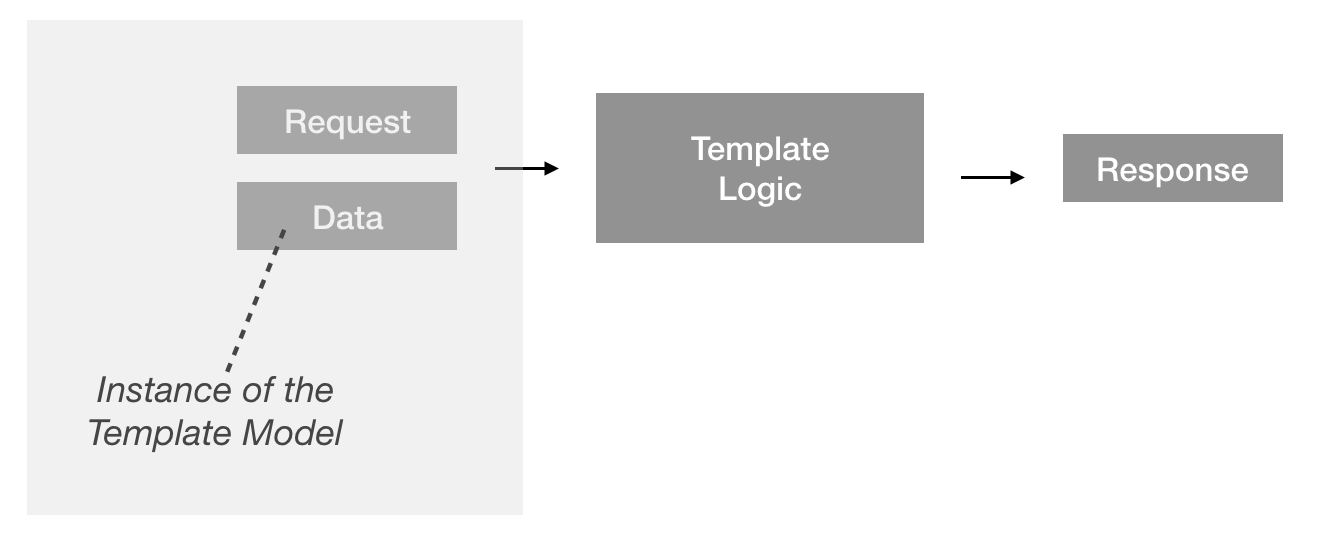
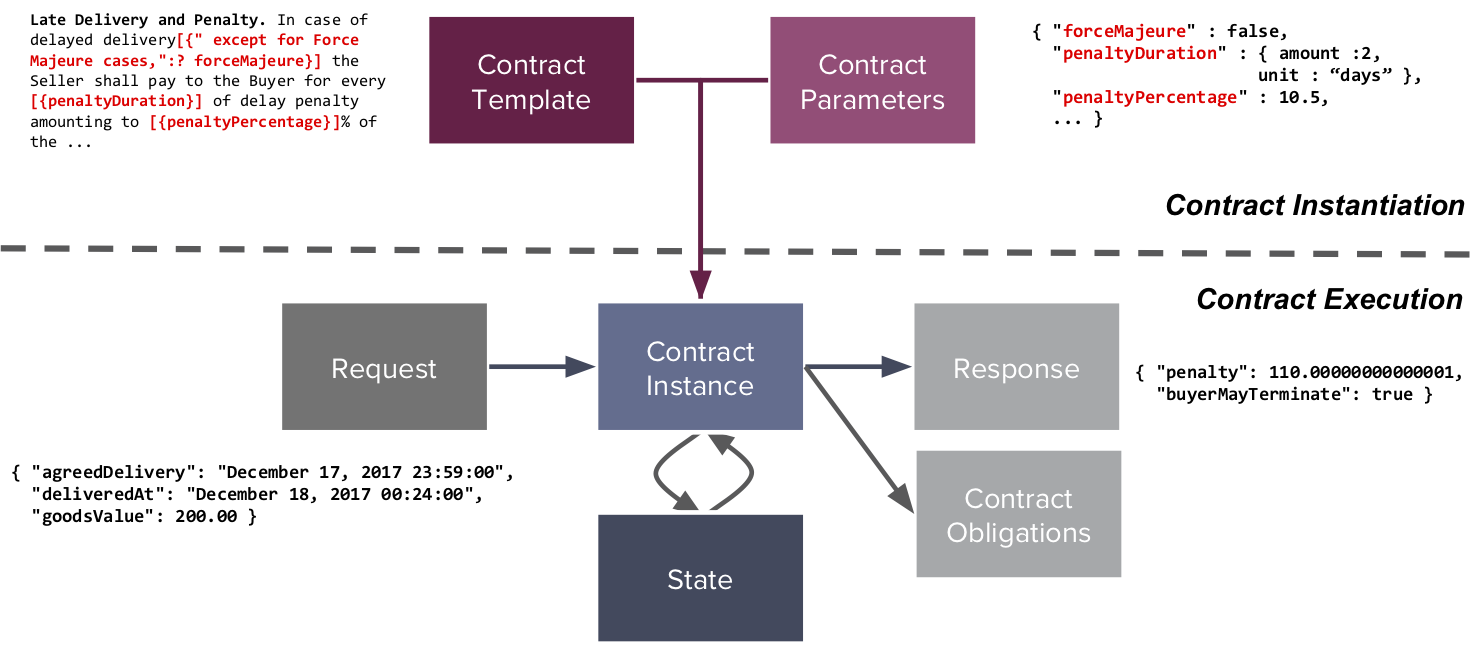
(fix) Minor fixes and improvements ; New execution figure in Cicero

diff --git a/website/versioned_docs/version-0.8.0.1/ergo-lang.md b/website/versioned_docs/version-0.8.0.1/ergo-lang.md
@@ -1,6 +1,7 @@
 ---
-id: ergo-lang
+id: version-0.8.0.1-ergo-lang
 title: Language Guide
+original_id: ergo-lang
 ---
 
 Ergo provides a simple expression language to describe computation. From those expressions one can write functions, clauses, and then whole contract logic. This page explains most of the Ergo concepts starting from simple expressions all the way to contracts.

diff --git a/website/versioned_docs/version-0.8.0.1/ergo-stdlib.md b/website/versioned_docs/version-0.8.0.1/ergo-stdlib.md
@@ -1,6 +1,7 @@
 ---
-id: ergo-stdlib
+id: version-0.8.0.1-ergo-stdlib
 title: Standard Library
+original_id: ergo-stdlib
 ---
 
 The following functions are in the `ord.accordproject.ergo.stdlib` namespace and available by default.

diff --git a/website/versioned_docs/version-0.8.0.1/cicero-concepts.md b/website/versioned_docs/version-0.8.0.1/cicero-concepts.md
@@ -1,6 +1,7 @@
 ---
-id: cicero-concepts
+id: version-0.8.0.1-cicero-concepts
 title: Cicero Concepts
+original_id: cicero-concepts
 ---
 
 ## Template 
